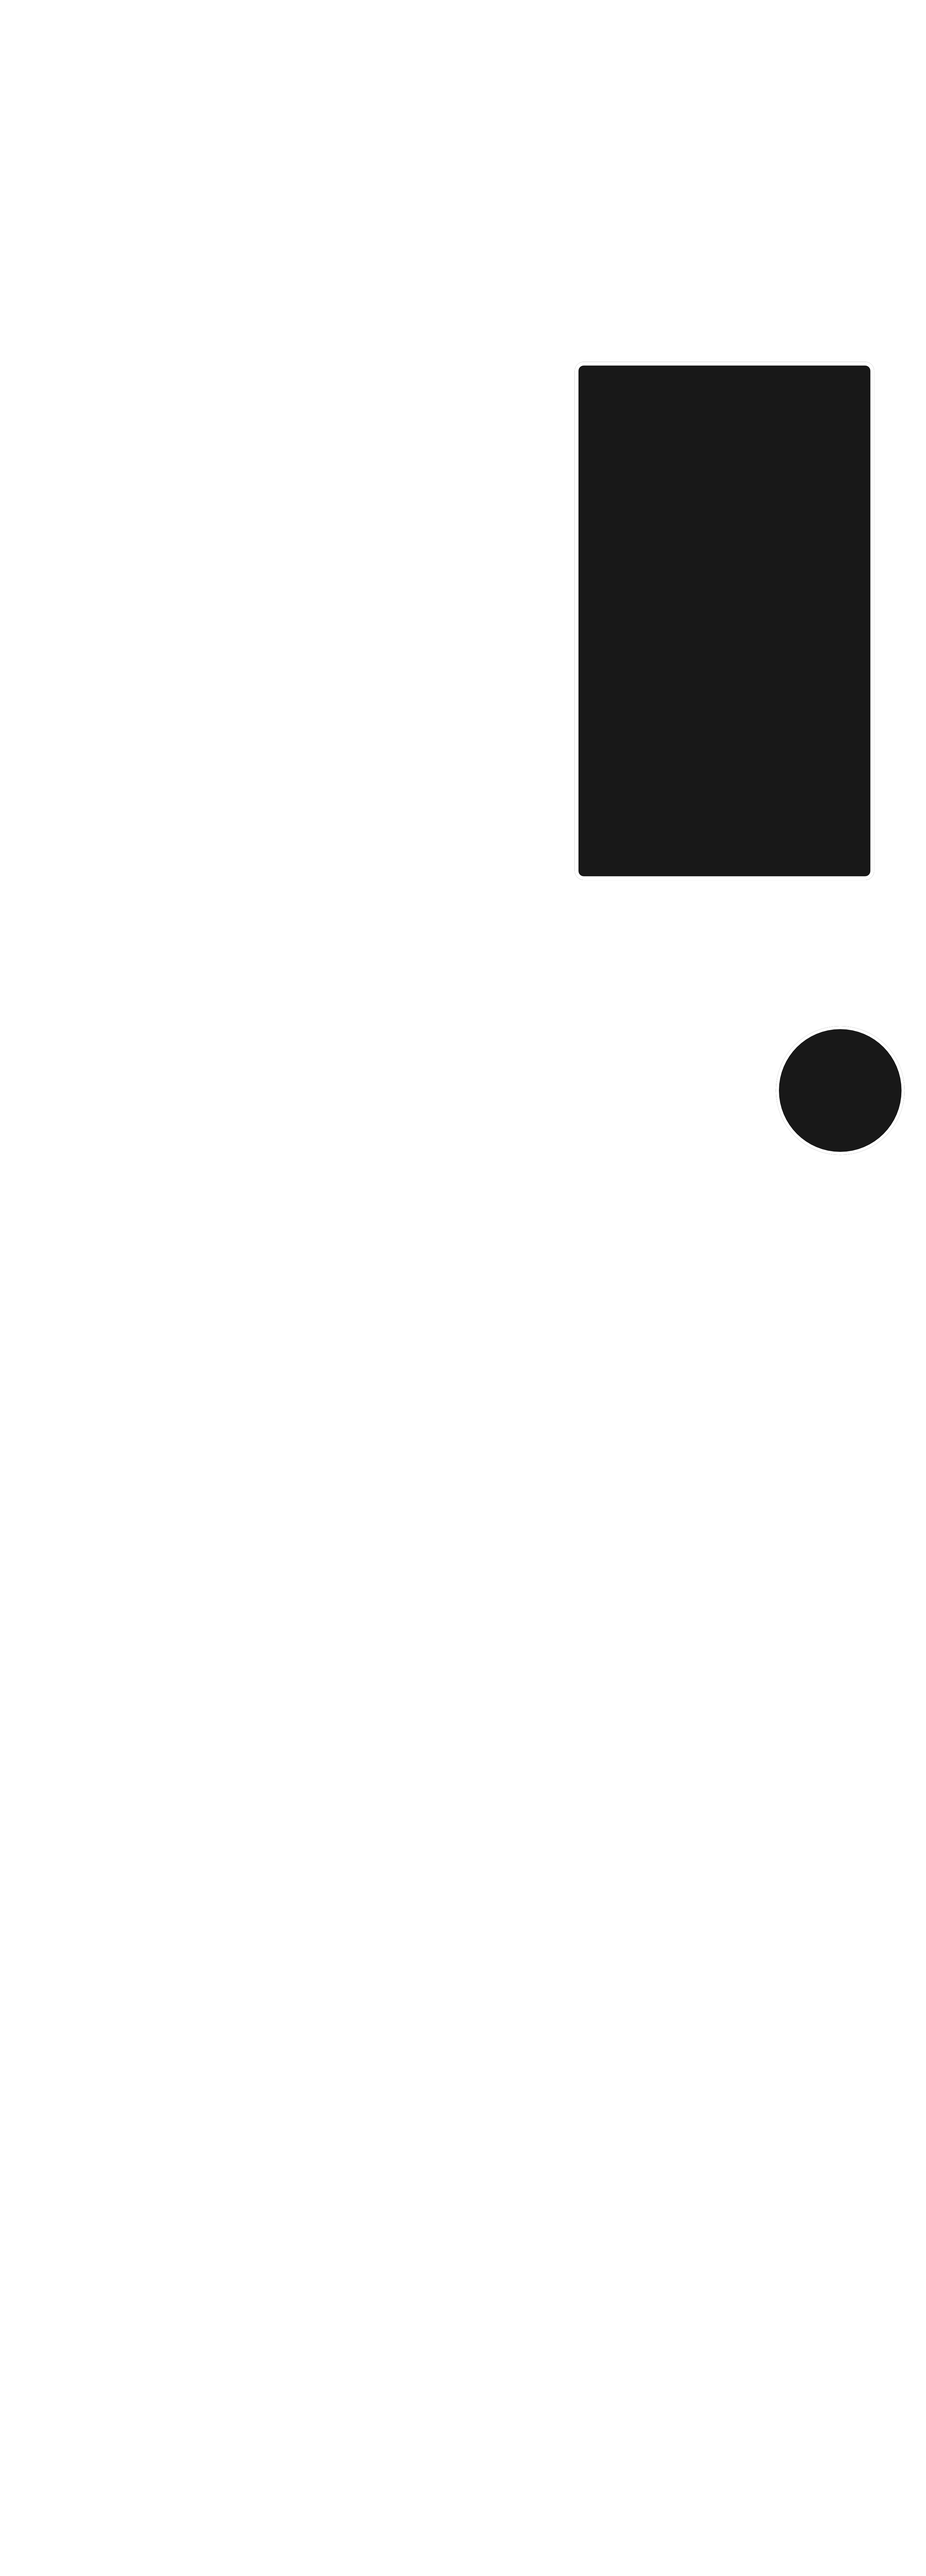
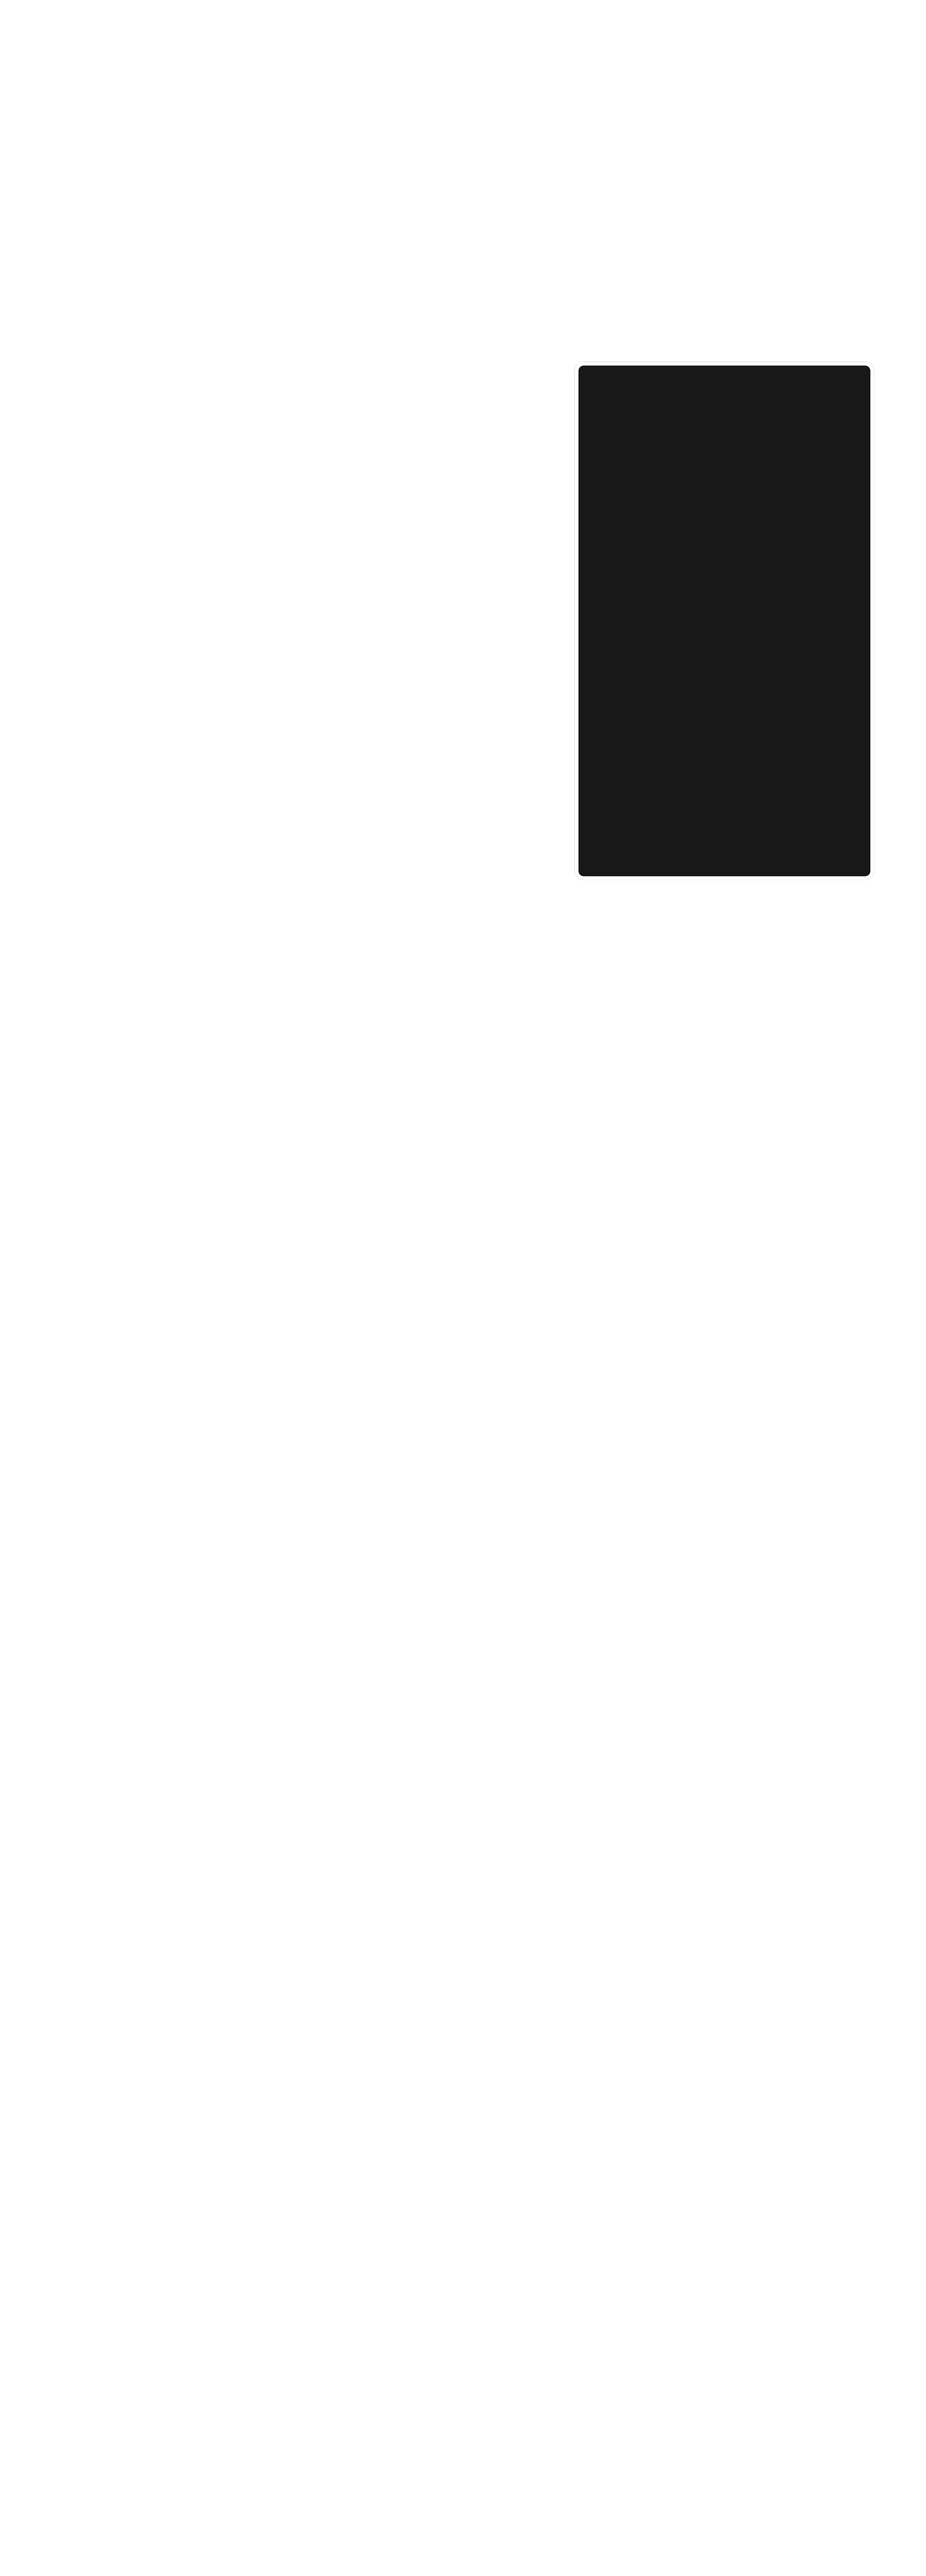
Added Pawn as Familiar to Coven Sheet

Changed region(s): [[0.8365, 0.3742, 0.9914, 0.4678]]

diff --git a/Thaumaturgy/Thaumaturgy.html b/Thaumaturgy/Thaumaturgy.html
@@ -1264,54 +1264,61 @@
                 </div>
             </section>
 
-            <!-- Arcane Anagoge -->
-            <section class="arcaneAnagogeWidget">
-                <h1 class="anagogeTitle">Arcane Anagoge</h1>
-                <div class="anagogeIntro">
-                    Long ago—before the Shattering of the third realm—there was a Wizard who forecast a dreadful fate,
-                    which they strove to defy through magic. They pursued ascension—a journey through thirteen Arcana
-                    that would allow the Wizard to overcome their fate. There are many different tales of the Wizard’s
-                    adventures, each of which correspond to the 13 Arcana.
-                </div>
-                <h3 class="anagoge1">Folk[1]</h3>
-                <textarea name="attr_anagoge1"
-                    class="anagoge1">The Wizard’s journey begins where everyone’s story begins, amongst everyday Folk. They were raised in [where?]. [who?] read their fate and what they discovered was awful. With this knowledge they searched for magic, spells to change their fate. The first spell they cast was [what?] and [what happened?]—it was terrible, but they avoided their awful fate. Folk noticed and the weirdness frightened them, who drove the Wizard away.</textarea>
-                <h3 class="anagoge2">Apprentice[2]</h3>
-                <textarea name="attr_anagoge2"
-                    class="anagoge2">Having found magic, the Wizard quickly discovers the Academy when they meet an Apprentice called [Who?]. Soon they’re admitted and becomes an Apprentice themselves, taking the name [Scholarly Name?]. The Wizard’s time as an apprentice is exciting and Caster’s still whispers about the [what?] exploit.</textarea>
-                <h3 class="anagoge3">Wild[3]</h3>
-                <textarea name="attr_anagoge3"
-                    class="anagoge3">Later, [what objective?] drove the Wizard to quest beyond the Academy walls. They soon find themselves deep in the Wilds. There they fight [what foe?] the wilderness and soon they become as entangled with [who?]. </textarea>
-                <h3 class="anagoge4">Passions[4]</h3>
-                <textarea name="attr_anagoge4"
-                    class="anagoge4">For the first time since initiation, the Wizard returns home. They find that folk have forgotten and happily welcome them back. They use magic to indulge in [what?]. Soon they become entangled with [what?] until [what event?] proves that they must leave. </textarea>
-                <h3 class="anagoge5">Coin[5]</h3>
-                <textarea name="attr_anagoge5"
-                    class="anagoge5">Later, out in the world, the Wizard is tempted by [what temptation?]. They began by helping [who?]. Soon they move on to [what extravagence?], but find they’re entangled with [who?] as their fate.</textarea>
-                <h3 class="anagoge6">Judge[6]</h3>
-                <textarea name="attr_anagoge6"
-                    class="anagoge6">In their journey the Wizard has cast spells with impunity, but such latitude doesn’t last forever. When they’re suddenly confronted by the Judge, they demand that they [what ordeal?] to prove the morality of their spellcasting. The Judge pronounces the judgement of [what judgement?]. </textarea>
-                <h3 class="anagoge7">Crown[7]</h3>
-                <textarea name="attr_anagoge7"
-                    class="anagoge7">The Wizard’s journey toward ascension is separate from the structures of society. Eventually, the Crown notices them due to [what act?].  Crown agents use their entanglements with [who?] to pursues the Wizard. While the Wizard escapes the Crown’s control, they pay a price in the form of [what do they loose?].</textarea>
-                <h3 class="anagoge8">Master[8]</h3>
-                <textarea name="attr_anagoge8"
-                    class="anagoge8">After so long away, the Wizard returns to the Academy to study with a great Master of magic, but the Master rebuffs them by [what excuse?]. Before the Master accepts them, the Wizard must prove by [what act?]. Under this tutelage the Wizard masters [which art?].</textarea>
-                <h3 class="anagoge9">Rival[9]</h3>
-                <textarea name="attr_anagoge9"
-                    class="anagoge9">The Wizard is trapped in a web of intrigue woven around them by their Rival. Just before their doom the Wizard realises that they were fooled by [what ruse?]. Before they may confront their Rival, they must overcome [what challenge?]. In an epic battle, the Wizard uses [what plan?] to defeat their Rival despite the odds.</textarea>
-                <h3 class="anagoge10">Divine[10]</h3>
-                <textarea name="attr_anagoge10"
-                    class="anagoge10">Here the Wizard is summoned before the Divine, [which patron?]. They reproach them for [what act?] and demands [act of contrition?] as penitence. Once rebuked, the Wizard is recognised for [what act?] and offers them [what reward?] as a role in their domain.</textarea>
-                <h3 class="anagoge11">Trickster[11]</h3>
-                <textarea name="attr_anagoge11"
-                    class="anagoge11">After overcoming the ten Arcana, the Wizard is powerful, defiant, and confident. The Trickster notices their hubris when they [what act?]. So, in the guise of [which arcana?], they [what trick?]. </textarea>
-                <h3 class="anagoge12">Destroyer[12]</h3>
-                <textarea name="attr_anagoge12"
-                    class="anagoge12">Without Warning, the Destroyer shatters the third realm in the form of [what?]. Shocked, the Wizard fights back by [how?].</textarea>
-                <h3 class="anagoge13">Forgotten[13]</h3>
-                <textarea name="attr_anagoge13"
-                    class="anagoge13">While the Wizard is remembered, many other ascendant wizards are not. Despite their mastery of magic, these wizards are lost to fate before they can ascend. Although there are questions about how the Wizard managed it and others didn’t, there are no answers to be found.</textarea>
+            <!-- Familiar -->
+            <section class="familiarWidget">
+                <h1>Familiar</h1>
+                    <div class="pawnSheetGrid">
+                        <section class="pawnAspects">
+                            <h1 class="name">Name</h1>
+                            <input type="text" name="attr_character_name" class="name" />
+                            <h4 class="concept">Paradigm</h4>
+                            <textarea class="concept" name="attr_concept" ></textarea>
+                            <h4 class="nature">Nature</h4>
+                            <input type="text" class="nature" name="attr_nature" list="nature" />
+                            <h4 class="description">Description</h4>
+                            <textarea name="attr_description" class="description"></textarea>
+                        </section>
+                        <!-- Charateristics -->
+                        <section class="charateristicWidget tagbox">
+                            <h2>Charateristics</h2>
+                            <textarea name="attr_charateristics"></textarea>
+                        </section>
+                        <!-- Tags -->
+                        <section class="tagWidget tagbox">
+                            <h2>Tags</h2>
+                            <textarea name="attr_tags"></textarea>
+                        </section>
+                        <!-- Resistances -->
+                        <section class="resistancesWidget">
+                            <h1>Resistances</h1>
+                            <fieldset class="repeating_resistances">
+                                <div class="resistance">
+                                    <input type="text" class="resistanceName" name="attr_pawnResistanceName" />
+                                    <input type="number" min="1" max="13" value="1" name="attr_potency" class="potency">
+                                </div>
+                            </fieldset>
+                        </section>
+                        <!-- Powers -->
+                        <section class="powersWidget">
+                            <h1>Powers</h1>
+                            <fieldset class="repeating_power">
+                                <div class="power">
+                                    <input type="text" class="powerName" name="attr_pawnPowerName" />
+                                    <textarea class="powerDescription" name="attr_pawnPowerDescription"></textarea>
+                                </div>
+                            </fieldset>
+                        </section>
+                        <!-- Key -->
+                        <section class="keyWidget">
+                            <h1>Key</h1>
+                            <fieldset class="repeating_key">
+                                <div class="key">
+                                    <input type="text" class="keyName" name="attr_pawnKeyName" />
+                                    <textarea class="key" name="attr_pawnKey"></textarea>
+                                </div>
+                            </fieldset>
+                        </section>
+                    </div>
             </section>
 
             <!-- Academy Map -->

diff --git a/Thaumaturgy/Thaumaturgy.css b/Thaumaturgy/Thaumaturgy.css
@@ -36,8 +36,8 @@ input.duellingSelector:checked ~ article.duellingSheet
     --alert: #C71585;
     /* Sheet Colors */
     --bgSheet: var(--paper);
-    --bgFieldDark: rgba(240,240,240,0.4);
-    --bgFieldLight: rgba(240,240,240,0.1);
+    --bgFieldDark: rgba(240,240,240,0.6);
+    --bgFieldLight: rgba(240,240,240,0.2);
     --txtBody: var(--text);
     --txtTitle: var(--text);
     --txtAlert: var(--alert);
@@ -68,8 +68,8 @@ input.duellingSelector:checked ~ article.duellingSheet
     --alert: #C71585;
     /* Sheet Colors */
     --bgSheet: var(--paper);
-    --bgFieldDark: rgba(0, 0, 0, 0.4);
-    --bgFieldLight: rgba(0, 0, 0, 0.1);
+    --bgFieldDark: rgba(0, 0, 0, 0.6);
+    --bgFieldLight: rgba(0, 0, 0, 0.2);
     --txtBody: var(--text);
     --txtTitle: var(--text);
     --txtAlert: var(--alert);
@@ -77,7 +77,7 @@ input.duellingSelector:checked ~ article.duellingSheet
     --border: var(--text);
     --buttonTxt: var(--text);
     --buttonTxtCaution: var(--alert);
-    --buttonShadow: rgba(0,0,0,0.20);
+    --buttonShadow: rgba(240,240,240,0.20);
     --buttonBGHover: var(--accent);
     --buttonTxtHover: var(--text);
     --buttonBGHoverCaution: var(--alert);
@@ -352,7 +352,7 @@ main.masterGrid
     display: grid;
     grid-gap: 0px;
     grid-template-columns: 400px 250px 1fr;
-    grid-template-rows: 312px 235px 205px 306px 159px auto 570px auto;
+    grid-template-rows: 312px 235px 205px 306px 159px auto 670px auto;
     justify-items: start;
     align-items: start;
 }
@@ -774,102 +774,21 @@ main.masterGrid
                 height: 70px;
             }
 
-/* Arcane Anagoge */
-.arcaneAnagogeWidget
+/* familiarWidget */
+.familiarWidget
 {
     grid-area: 3/1/auto/-1;
     display: grid;
     width: 100%;
     height: 100%;
-    grid-template-columns: 20px 125px 1fr;
-    grid-template-rows: 32px repeat(14,3fr) 1fr;
-    row-gap: 4px;
+    grid-template-columns: 1fr;
+    grid-template-rows: 30px auto;
 }
 
-    .arcaneAnagogeWidget > .anagogeTitle
-    {
-        grid-area: 1/2/auto/-1;
-    }
-
-    .arcaneAnagogeWidget > .anagogeIntro
-    {
-        grid-area: 2/2/-1/-1;
-    }
-
-    .arcaneAnagogeWidget > h3
-    {
-        grid-column: 2/auto;
-    }
-
-    .arcaneAnagogeWidget > textarea
-    {
-        grid-column: 3/auto;
-    }
-
-    .arcaneAnagogeWidget > .anagoge1
-    {
-        grid-row: 3/auto;
-    }
-
-    .arcaneAnagogeWidget > .anagoge2
-    {
-        grid-row: 4/auto;
-    }
-
-    .arcaneAnagogeWidget > .anagoge3
-    {
-        grid-row: 5/auto;
-    }
-
-    .arcaneAnagogeWidget > .anagoge4
-    {
-        grid-row: 6/auto;
-    }
-
-    .arcaneAnagogeWidget > .anagoge5
-    {
-        grid-row: 7/auto;
-    }
-
-    .arcaneAnagogeWidget > .anagoge6
-    {
-        grid-row: 8/auto;
-    }
-
-    .arcaneAnagogeWidget > .anagoge7
-    {
-        grid-row: 9/auto;
-    }
-
-    .arcaneAnagogeWidget > .anagoge8
-    {
-        grid-row: 10/auto;
-    }
-
-    .arcaneAnagogeWidget > .anagoge9
-    {
-        grid-row: 11/auto;
-    }
-
-    .arcaneAnagogeWidget > .anagoge10
-    {
-        grid-row: 12/auto;
-    }
-
-    .arcaneAnagogeWidget > .anagoge11
-    {
-        grid-row: 13/auto;
-    }
-
-    .arcaneAnagogeWidget > .anagoge12
-    {
-        grid-row: 14/auto;
-    }
-
-    .arcaneAnagogeWidget > .anagoge13
-    {
-        grid-row: 15/auto;
-    }
+.familiarWidget .pawnSheetGrid
+{
+    grid-area: 2/1/-1/-1;
+}
 
 /* Rituals */
 .ritualWidget
@@ -3334,8 +3253,8 @@ input[type="number"].rippleBox
             .tableSpread > .editTableSpread > .arcanaEdit select
             {
                 grid-column: 2/3;
-                color: black;
-                background: transparent;
+                color: var(--text);
+                background: var(--bgFieldLight);
             }
 
          .tableSpread > .editTableSpread > .leftLegEdit
@@ -3811,7 +3730,7 @@ input.editToggle[value="1"] + .editMenu
 {
     display: grid;
     background-size: 100%;
-    background: rgba(255,255,255,0.8) no-repeat fixed top;
+    background: var(--bgFieldDark) no-repeat fixed top;
     z-index: 10;
     width: 100%;
     height: 100%;
@@ -5382,7 +5301,7 @@ div.key
     width: 100%;
     height: 100%;
     grid-area: 1/1/auto/-1;
-    grid-template-columns: 80px 3fr 85px 125px 2fr;
+    grid-template-columns: 1fr 5fr 1fr 5fr;
     grid-template-rows: 30px repeat(3, 22px);
     justify-items: start;
     align-items: start;
